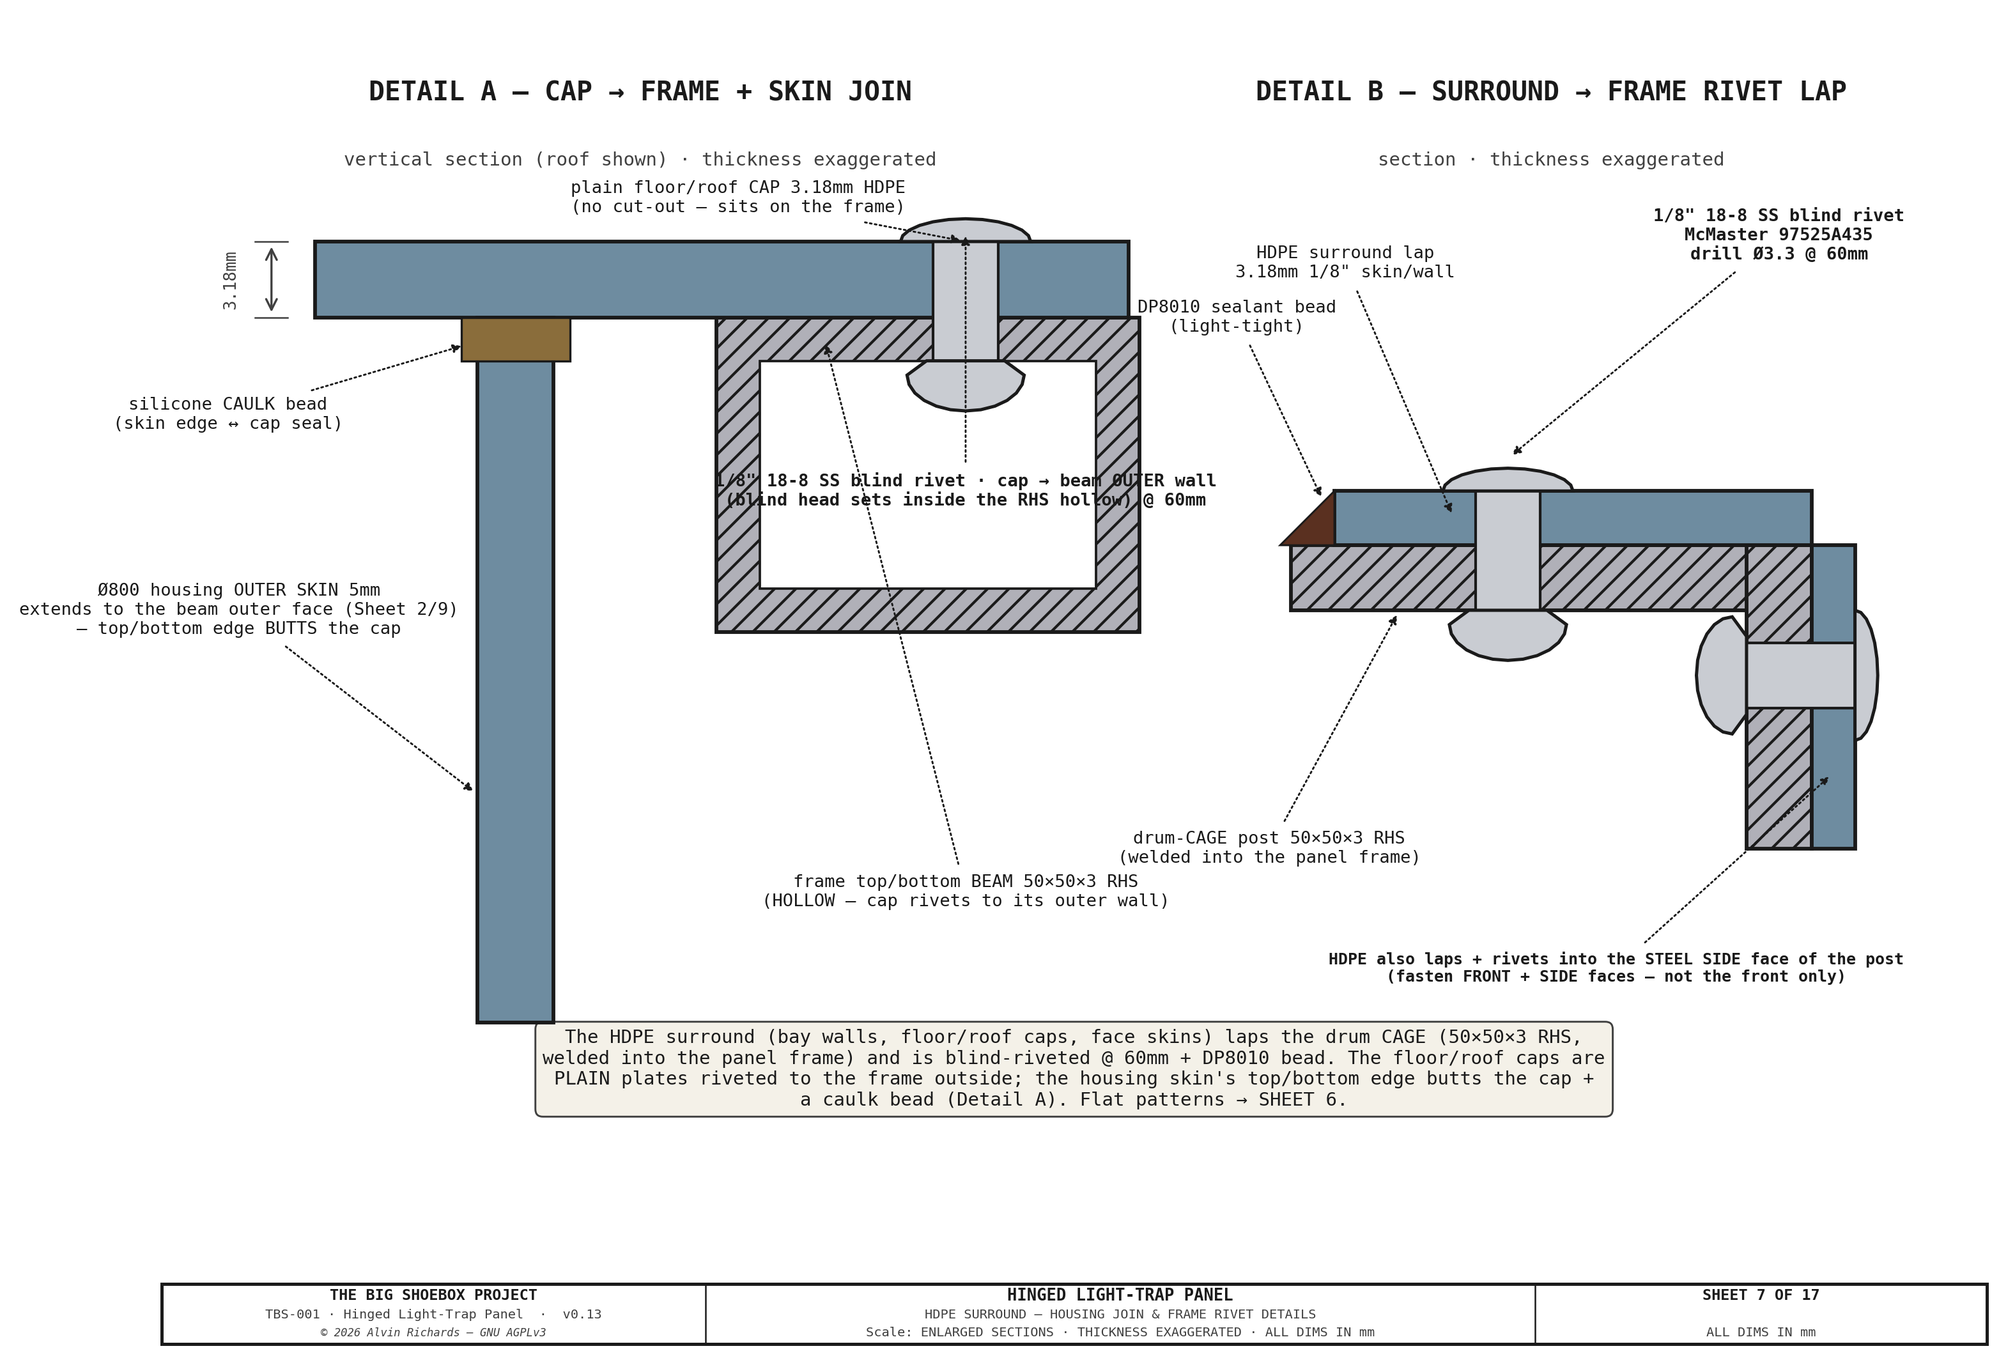
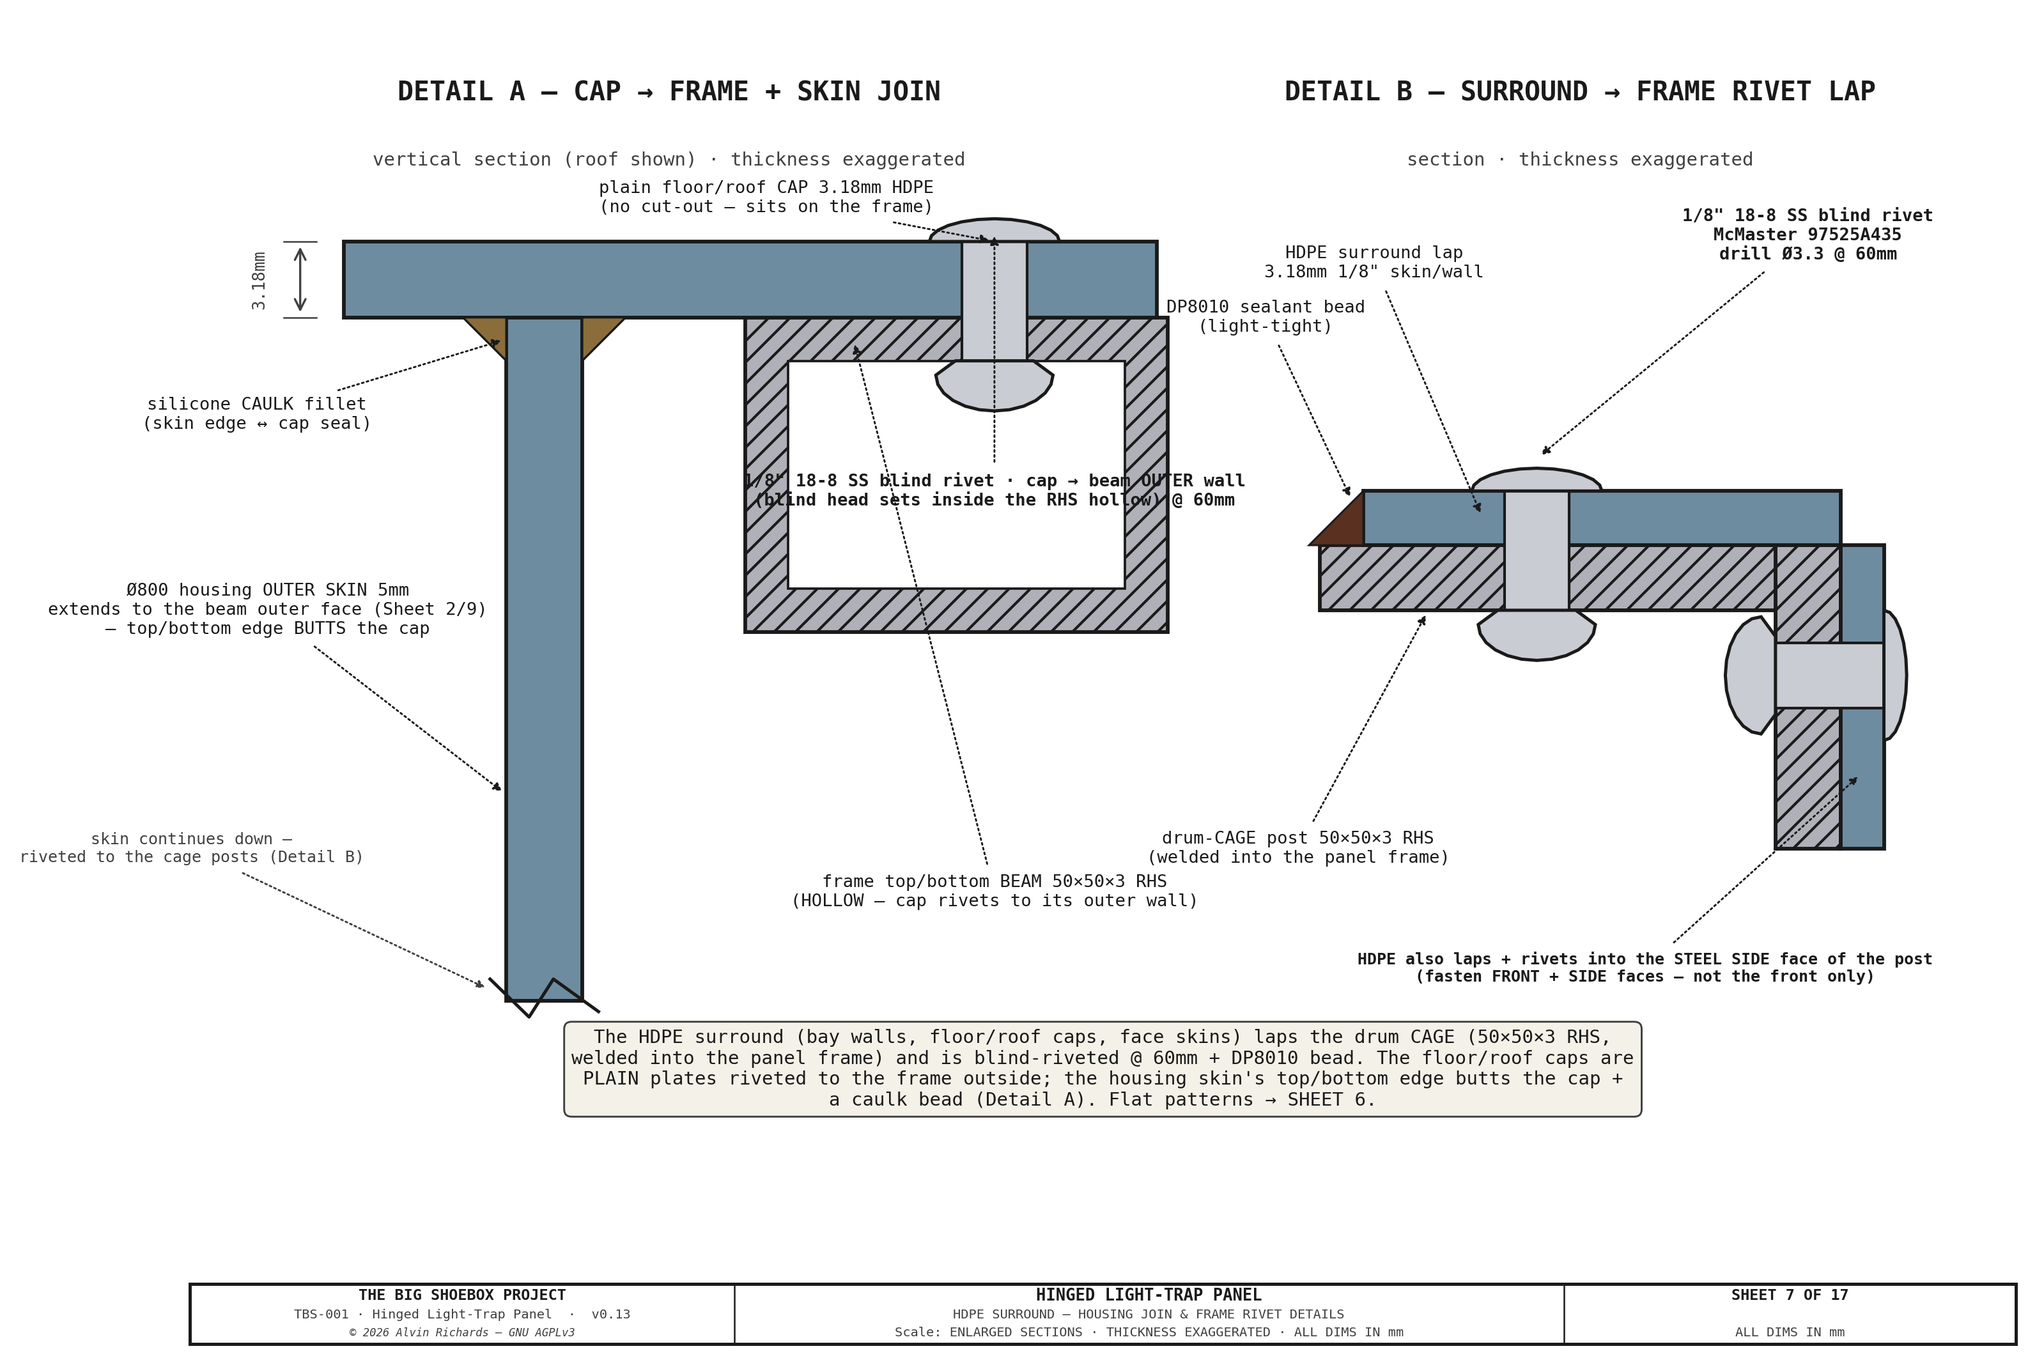
Hingepanel review 4: Sheet 7 caulk fillet + skin support; Sheet 17 lug dims off rails; Sheet 2 side-wall rivets
Sheet 7 Detail A: replace the rectangular caulk bead with a triangular
sealant fillet in each skin<->cap re-entrant corner (matching Detail B);
add a break line + note so the housing outer skin reads as continuing
down and riveted to the cage posts (Detail B), not floating.

Sheet 17 Detail D: dimension the stay lugs from the end rails they weld
near (34mm below the top header, 93mm above the bottom rail), with both
rails drawn and labeled, instead of from the floor.

Sheet 2: spread the HDPE side-skin blind rivets down the full length of
each side wall (5 per side) to match the front-face fixing, instead of
only at the two drum-overhang extremes.

diff --git a/src/generators/generate_hingepanel_diagram.py b/src/generators/generate_hingepanel_diagram.py
@@ -494,12 +494,14 @@ def sheet2():
     for xw, _pf in side_faces:
         ax.add_patch(Rectangle((xw, CAGE_YB), BWALL, PANEL_EXT - CAGE_YB,
                                 fc=C_PLASTIC, ec=C_OUT, lw=1.0, zorder=4))
-    # rivet line: horizontal-axis blind rivets (SIDE-VIEW glyph, not end-on circles) through
-    # the HDPE side skin into each corner post — one at the exterior post, one at the interior.
-    # Left skin is outboard of post face → factory head at −X (ang 180); right skin mirror (ang 0).
+    # rivet line: horizontal-axis blind rivets (SIDE-VIEW glyph, not end-on circles) SPREAD DOWN each
+    # HDPE side skin — the same fixing density as the front face, fastening the skin along the full side
+    # wall (into the front/back corner posts + the side perimeter rail). Left skin is outboard of the
+    # post face → factory head at −X (ang 180); right skin mirror (ang 0).
     post_face_L, post_face_R = DRUM_CAGE_YD_L, DRUM_CAGE_YD_R
+    _side_ys = [CAGE_YB + (CAGE_YT - CAGE_YB) * f for f in (0.10, 0.30, 0.50, 0.70, 0.90)]
     for pf, ang, cxr in ((post_face_L, 180, post_face_L - 8), (post_face_R, 0, post_face_R + 8)):
-        for ry in (D_YB, D_YT):                              # exterior post + interior post
+        for ry in _side_ys:
             _blind_rivet(ax, cxr, ry, ang, 16, d=6)
     ax.add_patch(Rectangle((DRUM_CAGE_YD_L, CAGE_YB), DRUM_CAGE_YD_R - DRUM_CAGE_YD_L, BAY_WALL_T * 4,  # bay front wall — width matches the cage frame (post-to-post)
                             fc=C_PLASTIC, ec=C_OUT, lw=1.0, zorder=4))
@@ -1787,13 +1789,22 @@ def sheet7():
     capz = by + bh                                  # cap underside = beam outer face
     ax.add_patch(Rectangle((30, capz), 150, 14, fc=C_PLASTIC, ec=C_OUT, lw=1.4, zorder=4))
     leader(ax, (150, capz + 14), (108, 172), f"plain floor/roof CAP {T_SKIN}mm HDPE\n(no cut-out — sits on the frame)", col=C_OUT)
-    # Housing outer skin (vertical) rising to BUTT the cap underside
+    # Housing outer skin (vertical) rising to BUTT the cap underside. A BREAK line at the bottom shows
+    # the skin continues down out of this section — it is blind-riveted to the drum-cage posts (Detail B),
+    # so it is supported there, not floating.
     hx, hw = 60, 14
-    ax.add_patch(Rectangle((hx, 20), hw, capz - 20, fc=C_PLASTIC, ec=C_OUT, lw=1.4, zorder=5))
+    _skin_b = 24                                    # break-line height (skin continues below)
+    ax.add_patch(Rectangle((hx, _skin_b), hw, capz - _skin_b, fc=C_PLASTIC, ec=C_OUT, lw=1.4, zorder=5))
+    _bk = [(hx - 3, _skin_b + 4), (hx + hw * 0.30, _skin_b - 3), (hx + hw * 0.62, _skin_b + 4), (hx + hw + 3, _skin_b - 2)]
+    ax.plot([p[0] for p in _bk], [p[1] for p in _bk], color=C_OUT, lw=1.2, zorder=6)   # break (skin continues below)
     leader(ax, (hx, 62), (16, 96), f"Ø{int(DRUM_D)} housing OUTER SKIN {T_HOUS}mm\nextends to the beam outer face (Sheet 2/9)\n— top/bottom edge BUTTS the cap", col=C_OUT)
-    # caulk bead at the skin-edge ↔ cap-underside butt
-    ax.add_patch(Rectangle((hx - 3, capz - 8), hw + 6, 8, fc="#8A6D3B", ec=C_OUT, lw=0.8, zorder=6))
-    leader(ax, (hx - 2, capz - 5), (14, 132), "silicone CAULK bead\n(skin edge ↔ cap seal)", col=C_OUT)
+    leader(ax, (hx - 3, _skin_b + 2), (2, 52), "skin continues down —\nriveted to the cage posts (Detail B)", col=C_DIM, fs=6)
+    # caulk FILLET (triangle) in each re-entrant corner where the housing skin meets the cap underside
+    # — a sealant fillet, like Detail B's bead (not a rectangular cap).
+    for _cx, _sgn in ((hx, -1), (hx + hw, 1)):
+        ax.add_patch(Polygon([(_cx, capz), (_cx + _sgn * 8, capz), (_cx, capz - 8)],
+                             closed=True, fc="#8A6D3B", ec=C_OUT, lw=0.8, zorder=6))
+    leader(ax, (hx, capz - 4), (14, 132), "silicone CAULK fillet\n(skin edge ↔ cap seal)", col=C_OUT)
     # blind rivet: vertical, through the cap (14) + the beam's TOP WALL (8) only — the blind head
     # forms in the RHS HOLLOW (grip = cap + one wall; NOT driven into a solid section).
     _blind_rivet(ax, 150, capz + 3, 90, 22, d=RIV_D)   # grip = cap(14)+wall(8); blind-head flat butts the wall INNER face (capz-8)
@@ -2876,7 +2887,7 @@ def sheet17():
     # ═══ DETAIL D — STAY LOCATIONS (swing-stile elevation · heights from the floor) ═══
     Dx = 690
     ax.text(Dx + 40, 205, "DETAIL D — STAY LOCATIONS", ha="center", fontsize=9, fontweight="bold", color=C_OUT, **FONT)
-    ax.text(Dx + 40, 192, "swing-stile elevation · stay heights AFF", ha="center", fontsize=6.3, color=C_DIM, **FONT)
+    ax.text(Dx + 40, 192, "swing-stile elevation · lug offsets from the end rails", ha="center", fontsize=6.3, color=C_DIM, **FONT)
     _dsc = 139.0 / BRACE_Z_TOP              # Z(mm) → sheet units; header 2244 → ~139 units (top ≈ y165, clears the title)
     def _dz(z):
         return 26 + z * _dsc               # floor Z0 → y26
@@ -2885,15 +2896,21 @@ def sheet17():
     ax.text(stx + 26, _dz(0), "FLOOR (Z0)", fontsize=5.6, color=C_DIM, va="center", ha="left", **FONT)
     ax.add_patch(Rectangle((stx, _dz(PANEL_FLOOR_GAP)), stw, _dz(BRACE_Z_TOP) - _dz(PANEL_FLOOR_GAP),
                            fc=C_STEEL, ec=C_OUT, lw=1.3, hatch="///", zorder=4))          # swing stile (to header Z2244)
+    # end rails (the beams the lugs are dimensioned FROM) — bottom rail at the stile base, top header at its top
+    _railh = 6
+    for _zb, _lbl, _va in ((PANEL_FLOOR_GAP, "BOTTOM RAIL", "top"), (BRACE_Z_TOP, "TOP HEADER", "bottom")):
+        ax.add_patch(Rectangle((stx - 26, _dz(_zb) - _railh / 2), stw + 26, _railh, fc=C_STEEL, ec=C_OUT, lw=1.1, hatch="///", zorder=4.6))
+        ax.text(stx + stw + 4, _dz(_zb), _lbl, fontsize=5.4, color=C_DIM, va="center", ha="left", **FONT)
     _lh = LT_STAY_LUG_H * _dsc              # lug height TO SCALE — sits within the stile (60mm @ Z2210 tops out below the Z2244 header)
     for z in LT_STAY_Z:                     # the two stay lugs (one at each height)
         ax.add_patch(Rectangle((stx + stw, _dz(z) - _lh / 2), 12, _lh, fc=C_STEEL, ec=C_OUT, lw=1.1, zorder=5))
         ax.add_patch(Circle((stx + stw + 7, _dz(z)), min(2.2, _lh * 0.42), fc=BG, ec=C_OUT, lw=0.9, zorder=6))
-    draw_dim_v(ax, stx - 12, _dz(0), _dz(LT_STAY_Z[0]), f"{LT_STAY_Z[0]}mm", fs=6, offset=7, right=False)
-    draw_dim_v(ax, stx - 30, _dz(0), _dz(LT_STAY_Z[1]), f"{LT_STAY_Z[1]}mm", fs=6, offset=7, right=False)
+    # lug positions dimensioned from the RAIL they weld near: bottom lug UP off the bottom rail, top lug DOWN off the header
+    draw_dim_v(ax, stx - 14, _dz(PANEL_FLOOR_GAP), _dz(LT_STAY_Z[0]), f"{int(LT_STAY_Z[0] - PANEL_FLOOR_GAP)}mm", fs=6, offset=7, right=False)
+    draw_dim_v(ax, stx - 14, _dz(LT_STAY_Z[1]), _dz(BRACE_Z_TOP), f"{int(BRACE_Z_TOP - LT_STAY_Z[1])}mm", fs=6, offset=7, right=False)
     _midz = (_dz(LT_STAY_Z[0]) + _dz(LT_STAY_Z[1])) / 2
     leader(ax, (stx + stw / 2, _midz), (stx + stw + 32, _midz), "swing stile\n(2×2×0.120 RHS)", col=C_OUT, fs=6, ha="left")
-    leader(ax, (stx + stw + 7, _dz(LT_STAY_Z[1])), (stx + stw + 32, _dz(LT_STAY_Z[1]) - 4), "stay lug ×2\n(Details B + C)", col=C_OUT, fs=6, ha="left")
+    leader(ax, (stx + stw + 7, _dz(LT_STAY_Z[1])), (stx + stw + 44, _dz(LT_STAY_Z[1]) - 8), "stay lug ×2\n(Details B + C)", col=C_OUT, fs=6, ha="left")
 
     draw_notes(ax, [
         "TRANSPORT LOCK — SPEC:",

diff --git a/RELEASE.md b/RELEASE.md
@@ -28,7 +28,7 @@ file** — a release must not ship without a changelog entry:
 - **Diagram-usage audit — every generated diagram now lives in an owning report (0 hanging).** A full audit mapped all 150 generated PNGs to the reports that embed them and found 13 that were in the gallery but shown in no report. The headline set was 8 **film-plane** sheets — the six per-part **fabrication detail** sheets (depth rail, acetal skate, cross-slide stack, corner plate, frame weldment, wall-seat saddle) that the report's "Fabrication Detail Sheets" section *described* but never displayed, plus the movement-spec/BOM and the frame-corner↔cross-slide attachment detail — all embedded into `film-plane-mechanism-report` so the shop-buildable blueprints are actually visible. The remaining 5 were placed by kind: the three joint-selection studies (concept options + gimbal + U-joint) into the `film-plane-joint-research` decision record, the Mini-TBS proof-of-concept into the funding proposal's education section, and the pinhole-wall elevation into the engineering overview. `all-diagrams.md` remains complete (150/150).
 - **Electrical Sheet 8 dimensioning refinements + witness-line convention codified.** The face-plate fab sheet now traces every stacked baseline dimension to its feature with a faint dotted **witness line**; rectangular cutouts (shore-inlet, 1-gang duplex) are located by an **edge/corner distance** plus their own internal W×H (round holes stay centre-located); the shore-inlet and duplex cutouts were aligned to a shared right edge (X=250) with its own `dim_h`. The blueprint style rules — witness lines, and cutout-by-edge vs hole-by-centre — were added to `CLAUDE.md` (Drawing Style Conventions).
 - **Brochure PDF trimmed — material-selection research dropped.** The Light Trap Selection study and the Tray Material Research decision record were removed from the TBS-001 prospectus PDF (added to `BROCHURE_EXCLUDE`); both remain on the website under Research. The PDF stays a build-documentation prospectus rather than carrying the material-trial appendices.
-- **Hingepanel blueprint review — geometry + dimension fixes (in progress).** From a Sheet-17-onward review: **Sheet 7 Detail A** — the frame beam is now drawn as a hollow 50×50×3 RHS and the blind rivet passes through the cap + the tube's outer wall only (blind head sets in the hollow), not plunged into a solid section. **Sheet 17 Detail C** — added the horizontal `dim_h` hole positions (30/90/30). **Sheet 17 Detail D** — scaled the lug glyph so the top stay sits within the stile (was poking above the header) and labeled the swing stile. **Sheets 10 + 14** — added `dim_v` for the three hinge-bracket (leaf) heights (300/1180/2000mm from floor). **Sheet 13** — added the ply→frame connection dims (L-tab reach + bolt offset above the weld). **Sheet 8/9** — the drum header + sill now BUTT both center-zone jambs symmetrically (was overlapping the left jamb but butting the right). **Sheet 17** — the Detail-C plate-pair section is retitled "DETAIL C — SECTION on the stay-EYE centerline" and its horizontal element labeled as the welded eye + turnbuckle rod (not a clamp bolt; the M16 bolts are the corner holes in the plan). (Sheet-17 2×2 regrid left as-is per review.) **Review round 2:** Sheet 7 rivet set-head now butts the RHS inner wall; Sheet 8/9 zone/drum-cage dims got witness lines to the frame + the RHS member-width and header/sill Z dims; Sheet 13 located the L-tab on the RHS + labeled the upstand plate; Sheet 14 detail located the bracket plate on the leaf stile (20/44/20) + labeled the stile. **Review round 3:** Sheet 8/9 now dimensions the two undimensioned corner zones (473mm near / 578mm far) completing the top horizontal chain, and the "962mm drum cage" dim reads against a ghosted (dashed) cage envelope so it terminates on a hard stop; Sheet 13 split the "43mm tab reach" into "36mm tab" + "7mm plate" (base-leg reach vs upstand-plate thickness).
+- **Hingepanel blueprint review — geometry + dimension fixes (in progress).** From a Sheet-17-onward review: **Sheet 7 Detail A** — the frame beam is now drawn as a hollow 50×50×3 RHS and the blind rivet passes through the cap + the tube's outer wall only (blind head sets in the hollow), not plunged into a solid section. **Sheet 17 Detail C** — added the horizontal `dim_h` hole positions (30/90/30). **Sheet 17 Detail D** — scaled the lug glyph so the top stay sits within the stile (was poking above the header) and labeled the swing stile. **Sheets 10 + 14** — added `dim_v` for the three hinge-bracket (leaf) heights (300/1180/2000mm from floor). **Sheet 13** — added the ply→frame connection dims (L-tab reach + bolt offset above the weld). **Sheet 8/9** — the drum header + sill now BUTT both center-zone jambs symmetrically (was overlapping the left jamb but butting the right). **Sheet 17** — the Detail-C plate-pair section is retitled "DETAIL C — SECTION on the stay-EYE centerline" and its horizontal element labeled as the welded eye + turnbuckle rod (not a clamp bolt; the M16 bolts are the corner holes in the plan). (Sheet-17 2×2 regrid left as-is per review.) **Review round 2:** Sheet 7 rivet set-head now butts the RHS inner wall; Sheet 8/9 zone/drum-cage dims got witness lines to the frame + the RHS member-width and header/sill Z dims; Sheet 13 located the L-tab on the RHS + labeled the upstand plate; Sheet 14 detail located the bracket plate on the leaf stile (20/44/20) + labeled the stile. **Review round 3:** Sheet 8/9 now dimensions the two undimensioned corner zones (473mm near / 578mm far) completing the top horizontal chain, and the "962mm drum cage" dim reads against a ghosted (dashed) cage envelope so it terminates on a hard stop; Sheet 13 split the "43mm tab reach" into "36mm tab" + "7mm plate" (base-leg reach vs upstand-plate thickness). **Review round 4:** Sheet 7 Detail A — the skin↔cap caulk is now a triangular sealant *fillet* in each re-entrant corner (like Detail B, not a rectangular cap), and the housing outer skin gets a break line + note ("continues down — riveted to the cage posts, Detail B") so it no longer reads as floating/unsupported; Sheet 17 Detail D now dimensions the stay lugs from the end rails they weld near (34mm below the top header, 93mm above the bottom rail) with both rails drawn + labeled, instead of from the floor; Sheet 2 spreads the HDPE side-skin blind rivets down the full length of each side wall (5 per side) to match the front-face fixing, rather than only at the two overhang extremes.
 - **Transport-stay lock reworked — spread, shrunk, and EP clearance corrected.** The two transport wall stays were spread to the frame limits (bottom Z500→310, top Z2050→2210 → couple / near-side passage 1,550→1,900mm) to open the operator gap *and* lower the stay tension; the anchor plates shrank **200×200 → 150×150** (matched top/bottom pair, M16 bolt square 140→90mm, 30mm edges kept); and the plate's X-clamp was retargeted from the battery column (`EP_X`) to the **EP plywood backing** it had missed (X1817), opening the clearance from a **3mm near-touch to 30mm**. Verified against the live overview model (near-wall bracket ~10mm, EP backing 30mm, top stay clean under the Z2244 header). Cascaded to overview / lighttrap / construction `.skp`, hingepanel **Sheet 17** — now with a new **Detail D — Stay Locations** elevation dimensioning both stays from the floor (Z310 / Z2210 AFF); `STAY_Z` was promoted to `tbs_constants.LT_STAY_Z` so the heights single-source across 2D + 3D, which also corrected a **stale hardcoded stay-Z note** on that sheet (it still read the old Z500/2050) — and `parts.py` + `hinged-panel-report` §5.2/§8.3. (The `manifest --update` also normalized pre-existing float-noise hash drift on electrical/water/pinhole-disc-holder — no geometry change, not re-sent.)
 - **Construction report reconciled to the 3D construction model + typos fixed.** The construction-sequence report's Phase 4 and Phase 5 steps had drifted from the phased construction model (the factual source of build order): the **E-stop + PV disconnect + cabling** install with the interior panel (**4.2**, not 4.1); Phase 4 was **missing the Fan-B / Cct-B + chem-shelf step (4.5)**; and the light trap is three model steps — **drum cage (5.3) / HDPE skins (5.4) / outer surround (5.5)** — with the **spray bar at 5.6** — the report now matches the model step-for-step. Fixed four typos (availbale, one→once, mode→model, moveemnt) and noted that Phase 2 (re-measure) has no 3D scene.
 - **Swung-panel door clearance corrected to the closed-door inner face (+59mm → +29mm).** The transport swung-panel clearance was measured to the door plane (X=0), not the *closed cargo door's inner face* — the ~60mm door leaf straddles the plane, so its inner face sits +30mm inboard, and that is the surface the swung panel must clear. `SWUNG_DOOR_CLEARANCE_MM` now subtracts the door-leaf half-thickness via a new single-sourced `CARGO_DOOR_LEAF_T=60` (which also drives the light-trap ghosted door leaf): true clearance **+29mm** (swept-frame min X 58.6mm − 30mm). Still clears with no foul, but the headline no longer overstates it by the door thickness. Swept the stale "true min X" framing from the reports/diagrams; cascaded to the hingepanel + ventilation sheets and the `swung_door_clearance_mm` fact. (This is a design figure — construction starts from actual measurements and adjusts at the re-measure step.)
